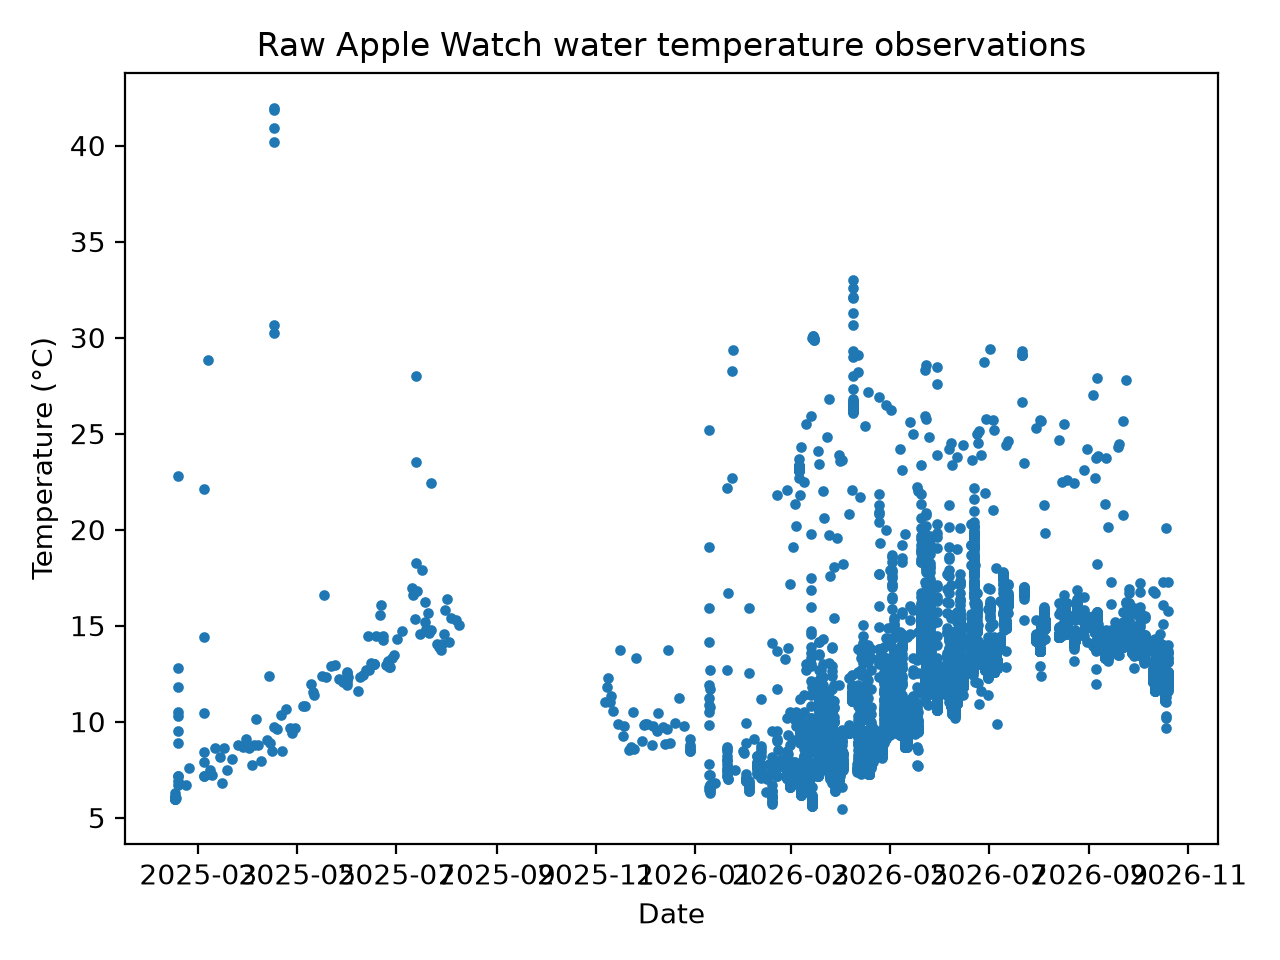
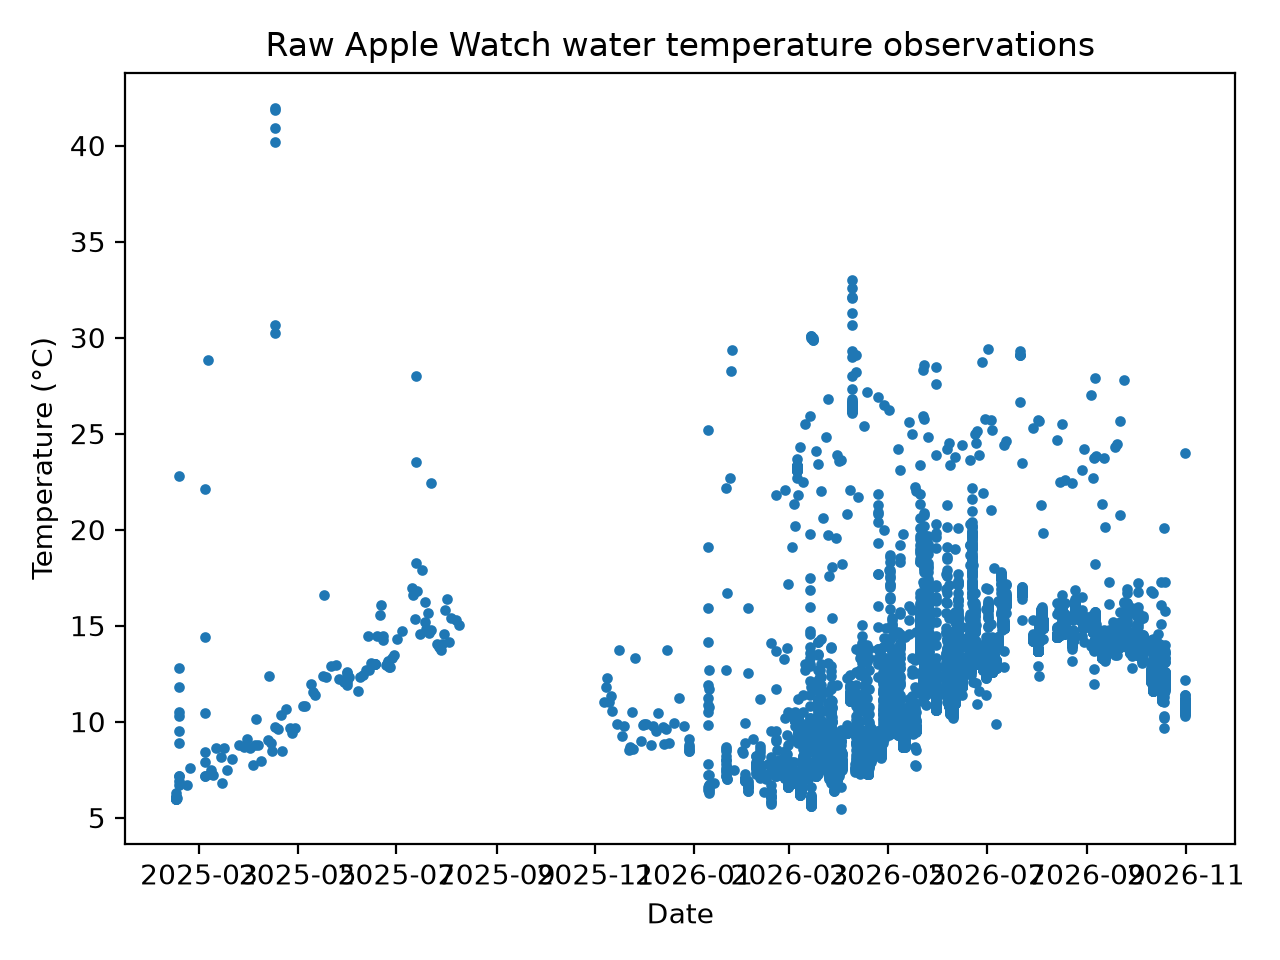
Add Apple Health merge step for smartwatch data and ipdate smartwatch report

diff --git a/smartwatch.html b/smartwatch.html
@@ -65,12 +65,12 @@ a {
 <h2>Dataset overview</h2>
 <table>
 <tr><th>Metric</th><th>Value</th></tr>
-<tr><td>Raw water temperature observations</td><td>9,677</td></tr>
-<tr><td>Observation period</td><td>2025-02-14 to 2026-10-19</td></tr>
-<tr><td>Sessions using 30-minute gap rule</td><td>319</td></tr>
+<tr><td>Raw water temperature observations</td><td>9,723</td></tr>
+<tr><td>Observation period</td><td>2025-02-14 to 2026-10-31</td></tr>
+<tr><td>Sessions using 30-minute gap rule</td><td>320</td></tr>
 <tr><td>Single-observation sessions</td><td>134</td></tr>
 <tr><td>Short sessions, 2–4 readings</td><td>12</td></tr>
-<tr><td>Continuous sessions, 5+ readings</td><td>173</td></tr>
+<tr><td>Continuous sessions, 5+ readings</td><td>174</td></tr>
 </table>
 </div>
 
@@ -78,18 +78,18 @@ a {
 <h2>Key findings</h2>
 
 <ul>
-<li><strong>9,677</strong> smartwatch water temperature observations were analysed.</li>
-<li>These observations formed <strong>319</strong> swim sessions using a 30-minute gap rule.</li>
-<li><strong>173 sessions (54.2%)</strong> contained five or more readings and provide sufficient observations to investigate stable temperature plateau detection. </li>
+<li><strong>9,723</strong> smartwatch water temperature observations were analysed.</li>
+<li>These observations formed <strong>320</strong> swim sessions using a 30-minute gap rule.</li>
+<li><strong>174 sessions (54.4%)</strong> contained five or more readings and provide sufficient observations to investigate stable temperature plateau detection. </li>
 <li>The median sampling interval was <strong>17.0 seconds</strong>, providing high temporal resolution within sessions.</li>
 <li>The data support deriving <strong>one representative temperature per swim session</strong>, rather than treating observations as independent temperature measurements.</li>
 </ul>
 
 <table>
 <tr><th>Finding</th><th>Value</th></tr>
-<tr><td>Average readings per session</td><td>30.3</td></tr>
-<tr><td>Readings ≥20°C</td><td>378 (3.9%)</td></tr>
-<tr><td>Readings ≥25°C</td><td>160 (1.7%)</td></tr>
+<tr><td>Average readings per session</td><td>30.4</td></tr>
+<tr><td>Readings ≥20°C</td><td>379 (3.9%)</td></tr>
+<tr><td>Readings ≥25°C</td><td>160 (1.6%)</td></tr>
 </table>
 
 </div>
@@ -101,7 +101,7 @@ a {
 <tr><th>Metric</th><th>Value</th></tr>
 <tr><td>Minimum recorded temperature</td><td>5.46°C</td></tr>
 <tr><td>Maximum recorded temperature</td><td>41.97°C</td></tr>
-<tr><td>Readings ≥20°C</td><td>378</td></tr>
+<tr><td>Readings ≥20°C</td><td>379</td></tr>
 <tr><td>Readings ≥25°C</td><td>160</td></tr>
 </table>
 <img src="reports/charts/raw_temperature_observations.png" alt="Raw smartwatch water temperature observations">
@@ -112,7 +112,7 @@ a {
 <table>
 <tr><th>Metric</th><th>Value</th></tr>
 <tr><td>Median sampling interval</td><td>17.0 seconds</td></tr>
-<tr><td>Within-session intervals</td><td>9,358</td></tr>
+<tr><td>Within-session intervals</td><td>9,403</td></tr>
 </table>
 <img src="reports/charts/sampling_intervals.png" alt="Sampling interval distribution">
 </div>
@@ -122,7 +122,7 @@ a {
 
 <table>
 <tr><th>Metric</th><th>Value</th></tr>
-<tr><td>Median duration</td><td>8.4 minutes</td></tr>
+<tr><td>Median duration</td><td>8.5 minutes</td></tr>
 <tr><td>75th percentile</td><td>20.2 minutes</td></tr>
 <tr><td>95th percentile</td><td>31.8 minutes</td></tr>
 </table>
@@ -168,14 +168,14 @@ above are excluded before this analysis.
 
 <table>
 <tr><th>Metric</th><th>Value</th></tr>
-<tr><td>Sessions analysed for stability</td><td>169</td></tr>
-<tr><td>Sessions with provisional stable window</td><td>143 (84.6%)</td></tr>
+<tr><td>Sessions analysed for stability</td><td>170</td></tr>
+<tr><td>Sessions with provisional stable window</td><td>144 (84.7%)</td></tr>
 <tr><td>Median time to first stable window</td><td>3.0 minutes</td></tr>
-<tr><td>75th percentile time to stability</td><td>6.1 minutes</td></tr>
-<tr><td>90th percentile time to stability</td><td>9.4 minutes</td></tr>
-<tr><td>Median rolling 5-reading range</td><td>0.21°C</td></tr>
+<tr><td>75th percentile time to stability</td><td>6.2 minutes</td></tr>
+<tr><td>90th percentile time to stability</td><td>9.3 minutes</td></tr>
+<tr><td>Median rolling 5-reading range</td><td>0.25°C</td></tr>
 <tr><td>75th percentile rolling range</td><td>0.50°C</td></tr>
-<tr><td>90th percentile rolling range</td><td>1.46°C</td></tr>
+<tr><td>90th percentile rolling range</td><td>1.58°C</td></tr>
 </table>
 
 <img src="reports/charts/first_stable_minute.png" alt="Time to first stable temperature window">
